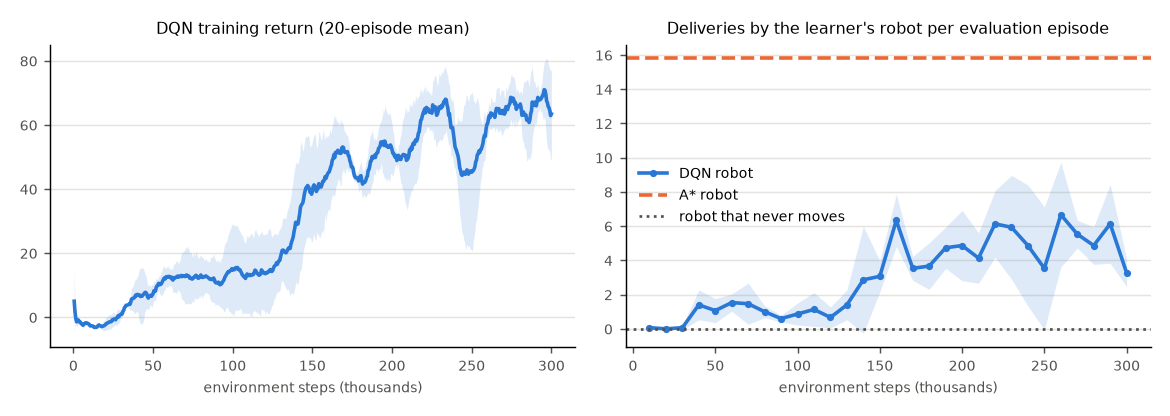
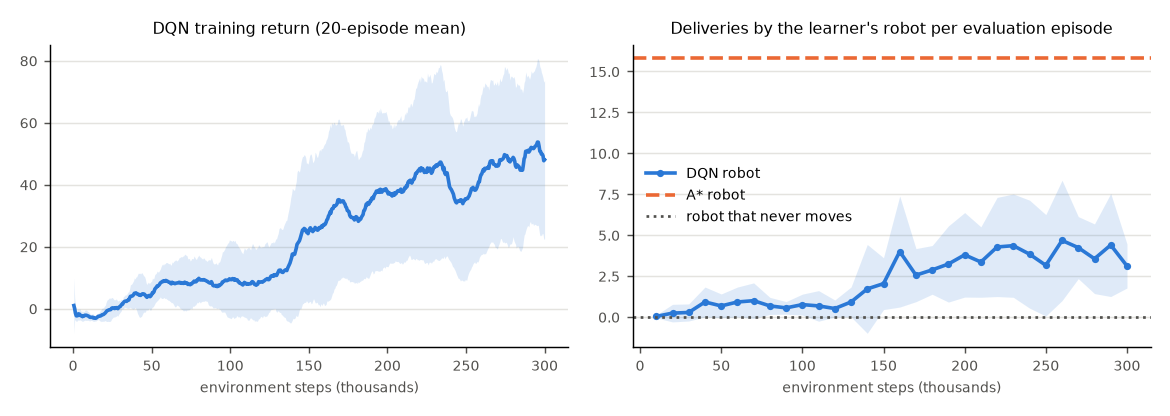
Train DQN on five seeds as the reporting rule requires; report seed variance

diff --git a/src/warehouse_sabotage/rl/dqn.py b/src/warehouse_sabotage/rl/dqn.py
@@ -131,7 +131,7 @@ def train_dqn(cfg: dict, seed: int, out_dir: str | Path | None = None, smoke: bo
     rng = np.random.default_rng(seed)
     env, eval_env = make_fleet_env(cfg), make_fleet_env(cfg)
     agent = DQNAgent(env.obs_dim, env.n_actions, d, rng)
-    episode_seeds = np.random.default_rng((seed, 1)).integers(10**9, size=total // 100 + 1)
+    episode_seeds = np.random.default_rng((seed, 1)).integers(10**9, size=total)  # at least one per step: never runs out
     eval_seeds = cfg["eval_seeds"][: 1 if smoke else None]
     step, ep, rows, t0 = 0, 0, [], time.perf_counter()
     while step < total:

diff --git a/docs/week8_dqn.md b/docs/week8_dqn.md
@@ -24,32 +24,32 @@ Outputs: `results/summary/week8_dqn.csv`, `docs/media/week8_dqn_progress.png`. T
 - **Evaluation:** every 20 episodes, 5 fixed episodes (seeds 9000 to 9004) at epsilon 0.05.
   - Benchmark: an A* robot in the learner's slot on the same seeds.
   - Lower bound: a robot that never moves.
-- **Seeds:** 3 training seeds (8100 to 8102).
+- **Seeds:** 5 training seeds (8100 to 8104), the minimum the reporting rule (section 8) asks for learned methods.
 
 ## Results (300k steps per seed)
 
 | robot in the learner's slot | its deliveries per episode | fleet deliveries (3 A* + this robot) |
 |---|---|---|
 | A* robot (benchmark) | 15.8 | 65.2 |
-| DQN, last 100 training episodes (epsilon 0.05) | 6.3 ± 0.2 | 52.8 ± 0.2 |
-| DQN, final evaluation | 3.3 ± 0.8 | 50.8 ± 1.1 |
-| DQN, best evaluation during training | 8.1 ± 1.8 | |
+| DQN, last 100 training episodes (epsilon 0.05) | 4.8 ± 2.3 | 51.3 ± 2.0 |
+| DQN, final evaluation | 3.1 ± 1.4 | 51.4 ± 1.3 |
+| DQN, best evaluation during training | 6.2 ± 3.1 | |
 | robot that never moves | 0.0 | 46.8 |
 
-Mean ± std over the 3 seeds; the evaluation rows use 5 episodes per seed.
+Mean ± std over the 5 seeds; the evaluation rows use 5 episodes per seed. Per seed, last 100 training episodes: 6.3, 6.2, 6.6, 1.2 and 3.8 deliveries.
 
 ![DQN training progress](media/week8_dqn_progress.png)
 
 ## Findings
 
-- **The DQN robot learns to deliver from local observations alone.** It starts at 0 deliveries, passes 1 per episode after about 40k steps, and settles at about 4 to 6 per evaluation episode after 150k steps, when epsilon reaches its floor. All 3 seeds show the same shape.
-- **It reaches about 40% of the A* robot** (6.3 against 15.8 deliveries in the last 100 training episodes). The fleet with a DQN robot delivers 52.8 against 65.2 with four A* robots. That is 6 more than with a robot that never moves (46.8), so the learner now adds to the fleet rather than getting in its way. A random robot in the same slot costs the fleet about 20 deliveries (smoke check: 46 and 44 in two episodes).
+- **The DQN robot learns to deliver from local observations alone, but not reliably across seeds.** On average it starts at 0 deliveries, reaches about 1 per evaluation episode after 40k steps, and climbs after 150k steps, when epsilon reaches its floor. Three seeds reach about 6 deliveries per episode, one reaches 3.8 and one barely learns (1.2). Seed variance is the main result at this budget.
+- **On average it reaches about 30% of the A* robot** (4.8 ± 2.3 against 15.8 deliveries in the last 100 training episodes; the best seeds reach about 40%). The fleet with a DQN robot delivers 51.3 against 65.2 with four A* robots. That is about 4.5 more than with a robot that never moves (46.8), so the learner adds to the fleet rather than getting in its way, even for the weakest seed (48.5). A random robot in the same slot costs the fleet about 20 deliveries (smoke check: 46 and 44 in two episodes).
 - **Training has not converged.** The return was still rising at 300k steps, and evaluation is noisy: 5 episodes per point, with dips of 2 to 4 deliveries between neighbouring points. Final-evaluation numbers are therefore less reliable than the training average.
 - **The learner still wastes moves.** One seed picks up requested shelves 47 times per evaluation episode for 2.4 deliveries. It likely picks up and drops shelves it cannot yet carry to a goal. The bonus no longer pays for this, so it is inefficiency rather than reward hacking, but it is the first thing to look at.
-- **Cost.** 300k steps take about 7 minutes per seed on a laptop CPU (about 710 steps per second, A* planning for the other three robots included). The three seeds ran in parallel.
+- **Cost.** 300k steps take about 7 minutes per seed on a laptop CPU (about 710 steps per second, A* planning for the other three robots included). Seeds ran two or three at a time in parallel.
 
 ## Next (Week 9)
 
-- Train longer (1M to 2M steps) and evaluate on more episodes (20 or more) before comparing with A*.
+- Train longer (1M to 2M steps) and evaluate on more episodes (20 or more) before comparing with A*. Check whether the weak seeds catch up with more training or need a different setting (for example a slower epsilon decay).
 - Run the limited hyperparameter search from the proposal (learning rate, gamma, epsilon schedule, shaping on/off) across seeds.
 - Rerun under sabotage (`kind: goal_blocker` etc. in the config) and on the small map (`layout: small`, once PR #6 is merged) for the DQN vs. A* comparison.
